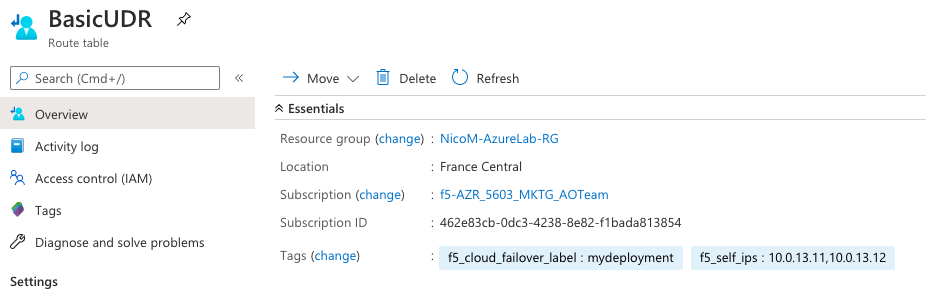
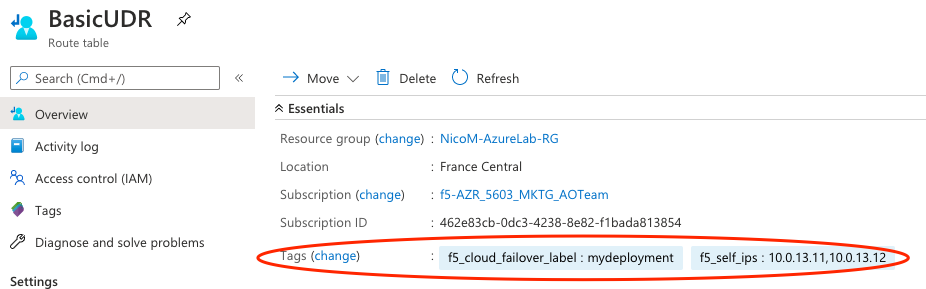
update to the Azure and AWS setup

Changed region(s): [[0.2721, 0.8097, 0.9978, 0.9965]]

diff --git a/docs/userguide/aws.rst b/docs/userguide/aws.rst
@@ -222,6 +222,10 @@ Create an `S3 bucket <https://docs.aws.amazon.com/AmazonS3/latest/user-guide/cre
 
 #. Each tag is a key-value pair. Type a :guilabel:`Key` and a :guilabel:`Value` of your choosing. This key-value pair will match the key-value pair you enter in the `externalStorage.scopingTags` section of the CFE declaration. Then select :guilabel:`Save`
 
+.. NOTE:: If you use our declaration example, the key-value tag would be: ``"f5_cloud_failover_label":"mydeployment"``
+
+.. image:: ../images/aws/AWS-S3-Tags.png
+
 |
 
 .. _aws-tag-addresses:
@@ -239,7 +243,9 @@ Tag the Network Interfaces in AWS:
 
      .. IMPORTANT:: The same tag (matching key:value) must be placed on corresponding NIC on the peer BIG-IP. For example, each BIG-IP would have their external NIC tagged with ``"f5_cloud_failover_nic_map":"external"`` and their internal NIC tagged with ``"f5_cloud_failover_nic_map":"internal"``.
 
+.. image:: ../images/aws/AWS-NetworkInterface-Tags.png
 
+|
 
 .. _aws-tag-addresses-acrossnet:
 
@@ -254,6 +260,9 @@ Tag the Elastic IP Addresses in AWS:
 
    - **VIP mapping tag**: a key-value pair with the reserved key named ``f5_cloud_failover_vips`` and value that contains a comma-separated list of addresses mapping to a private IP address on each instance in the cluster that the Elastic IP is associated with. For example: ``"f5_cloud_failover_vips":"10.0.12.101,10.0.22.101"``
 
+.. image:: ../images/aws/AWS-EIP-Tags.png
+
+|
 
 .. _aws-tag-routes:
 

diff --git a/docs/userguide/azure.rst b/docs/userguide/azure.rst
@@ -22,7 +22,6 @@ These are the basic prerequisites for setting up CFE in Microsoft Azure.
 
 .. NOTE:: CFE makes calls to the Azure APIs in order to failover cloud resource objects such as private IP addresses and route tables. These calls may vary significantly in response time. See the :ref:`performance-sizing` section for example times.
 
-
 |
 
 Complete these tasks to deploy Cloud Failover Extension in Microsoft Azure. Before getting started, we recommend you review the `Known Issues <https://github.com/F5Networks/f5-cloud-failover-extension/issues>`_ and :ref:`faq`. 
@@ -172,6 +171,12 @@ Add a storage account to your resource group, and tag with a name/value pair tha
 
 .. WARNING:: Ensure the required storage accounts do not have public access.
 
+.. NOTE:: If you use our declaration example, the key-value tag would be: ``"f5_cloud_failover_label":"mydeployment"``
+
+.. image:: ../images/azure/AzureStorageTags.png
+
+|
+
 
 .. _azure-nictagging:
 
@@ -192,7 +197,6 @@ Example:
 
 
 .. image:: ../images/azure/AzureNICTags.png
-
 
 |
 
